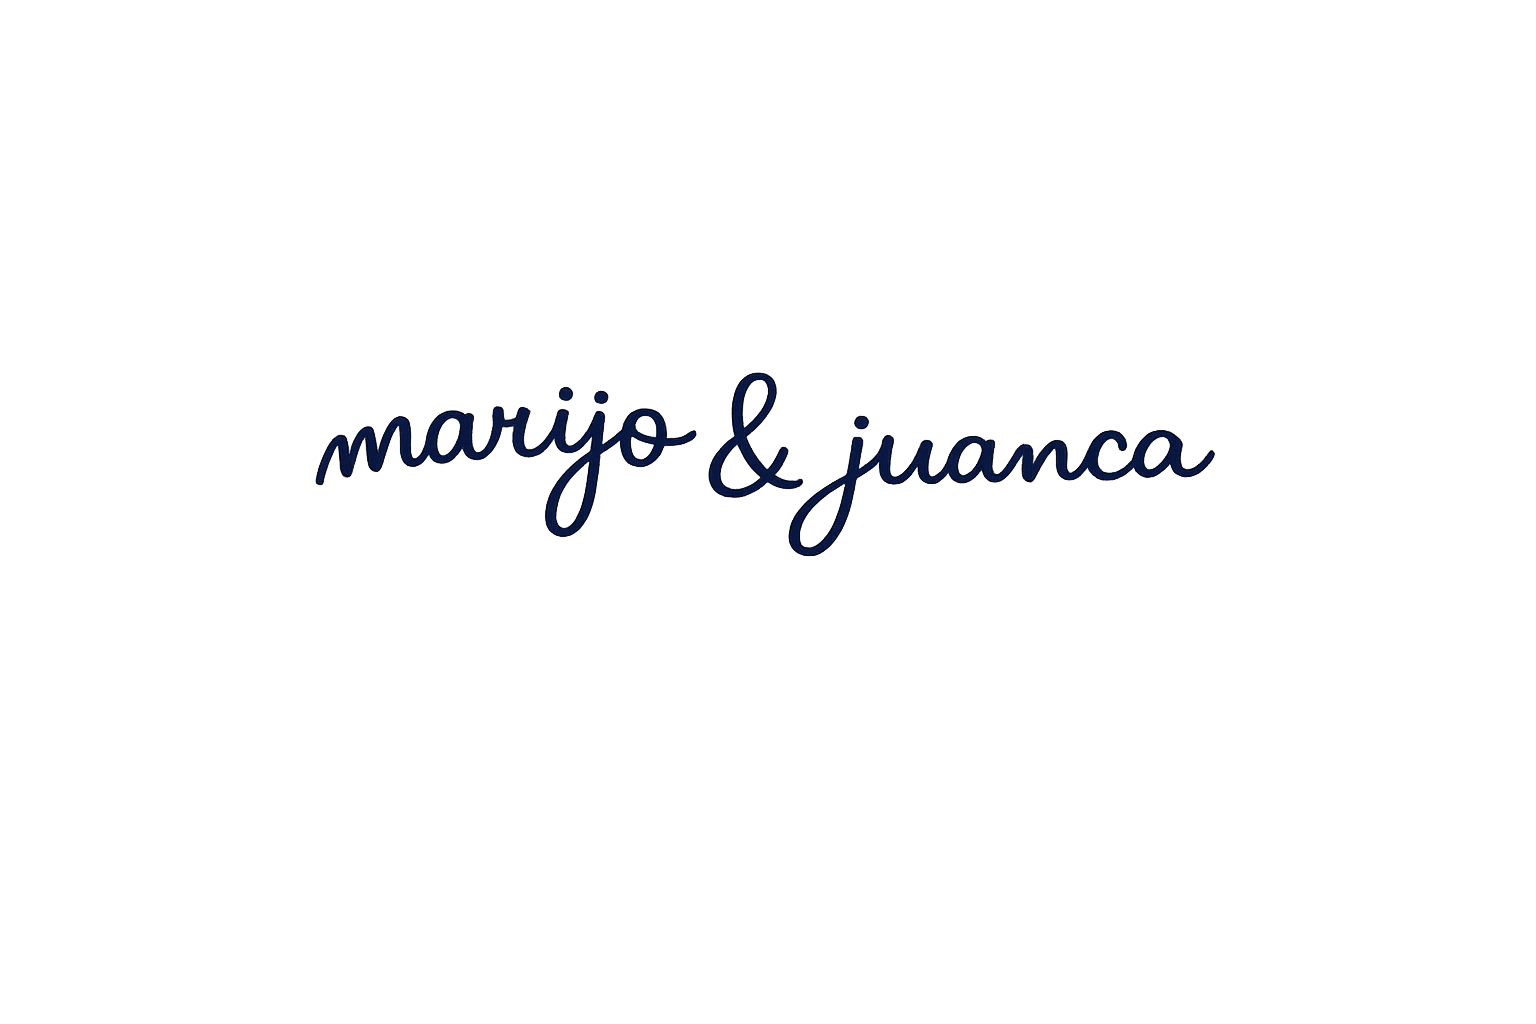
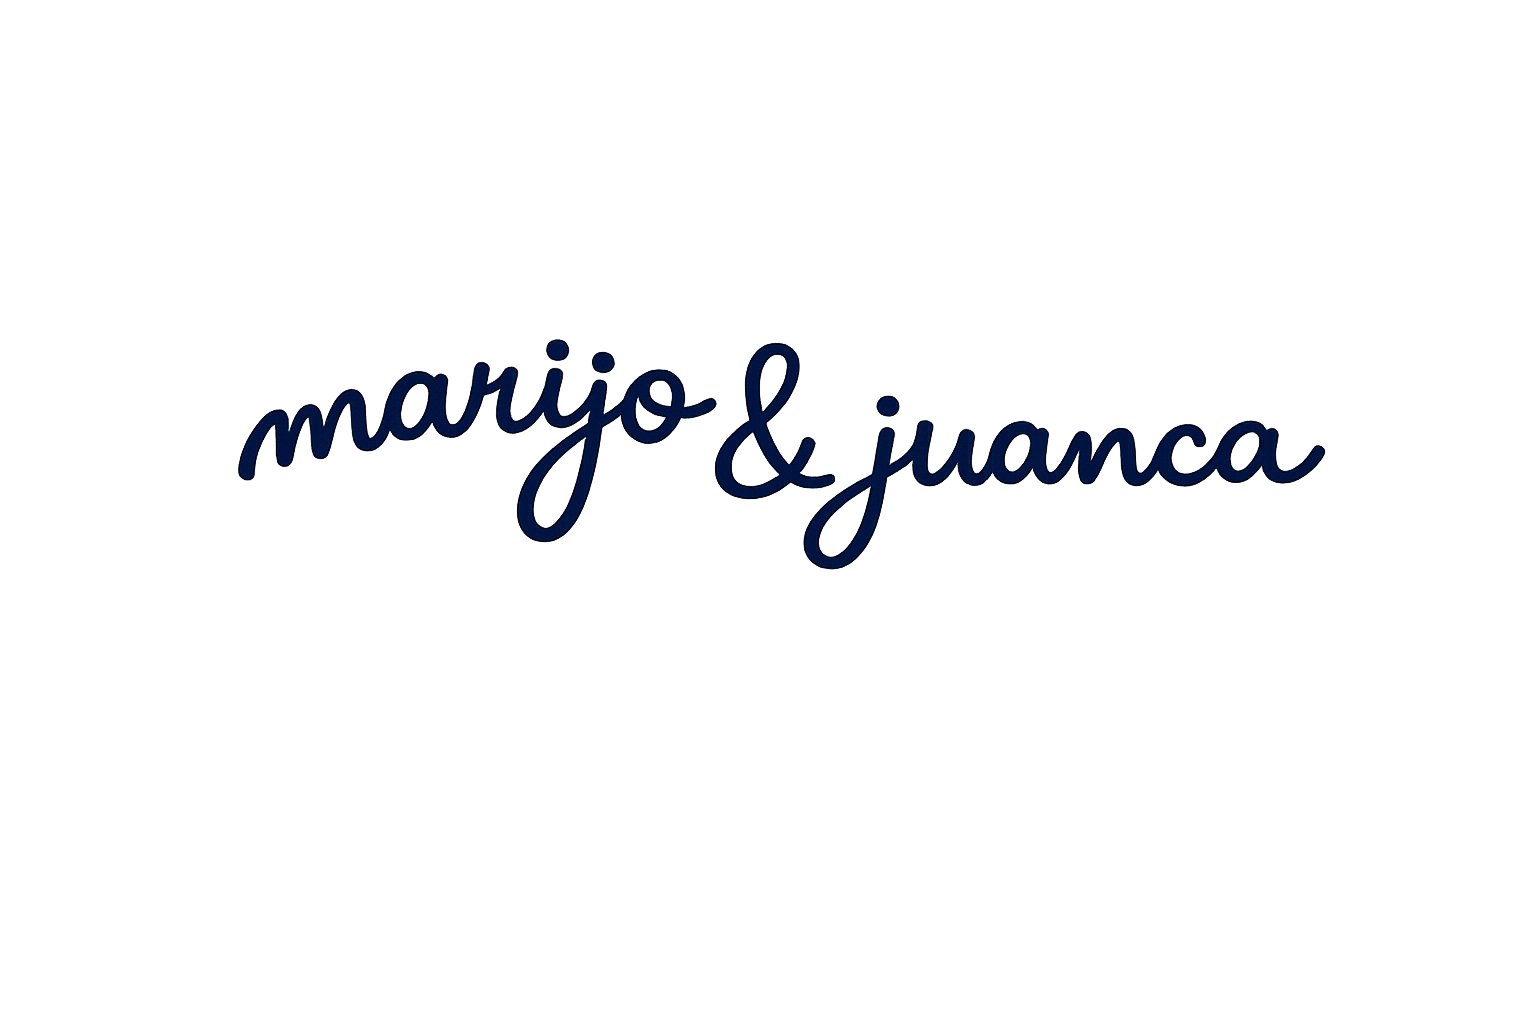
Updates coupleworkdmark

Changed region(s): [[0.1562, 0.3125, 0.875, 0.5625]]

diff --git a/src/App.js b/src/App.js
@@ -139,8 +139,8 @@ const CoupleWordmark = ({
   const width =
     variant === "footer"
       ? `clamp(${260 * scale}px, ${78 * scale}vw, ${560 * scale}px)`
-      : `clamp(${340 * scale}px, ${120 * scale}vw, ${980 * scale}px)`;
-
+      : `clamp(${380 * scale}px, ${174 * scale}vw, ${980 * scale}px)`;
+      
   return (
     <div
       className={className}
